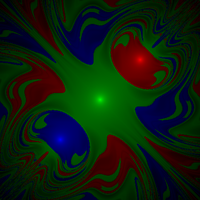
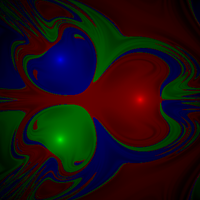
Refactor graphic's module code

diff --git a/src/graphics.py b/src/graphics.py
@@ -1,7 +1,6 @@
 import Image
 import colorsys  
-import math
-   
+  
 
 class ImageGenerator(object):
     
@@ -46,24 +45,22 @@ class ImageGenerator(object):
         self.color_list = []
         
         for i in range(0, number_of_colors):
-            base_hue = self.base_hsv[0]
-            base_saturation = self.base_hsv[1]
-            base_value = self.base_hsv[2]        
+            base_hue, base_saturation, base_value = self.base_hsv      
             
-            new_hue = base_hue + ((240 / number_of_colors) * i % 240)
-            new_rgb_color = colorsys.hsv_to_rgb(new_hue / 240, base_saturation, base_value)
-    
-            r = int(self.RGB_COLOR_SIZE * new_rgb_color[0])
-            g = int(self.RGB_COLOR_SIZE * new_rgb_color[1])
-            b = int(self.RGB_COLOR_SIZE * new_rgb_color[2])
-            
+            new_hue = (base_hue + ((240 / number_of_colors) * i % 240)) / 240
+            new_rgb_color = colorsys.hsv_to_rgb(new_hue, base_saturation, base_value)
+            r, g, b = self._correct_rgb_color(new_rgb_color)
+ 
             self.color_list.append((r, g, b))
 
- 
+    def _correct_rgb_color(self, rgb_color):
+        return map(lambda x: int(self.RGB_COLOR_SIZE * x), rgb_color)
+    
+     
 class BasicImageGenerator(ImageGenerator):
 
     def _colorize_pixel(self, color_number, track_value):
-
+ 
         if color_number == -1:
             return self.no_data_color
         else:
@@ -74,7 +71,7 @@ class AdvancedImageGenerator(ImageGenerator):
     
     def __init__(self, r, g, b):
         super(AdvancedImageGenerator, self).__init__(r, g, b)
-        self.max_track_length = []
+        self.max_tracks_length = []
     
     def generate_image(self, file_name, result_data, track_length, number_of_colors):
         self._calculate_max_track_length(result_data, track_length, number_of_colors)        
@@ -91,29 +88,24 @@ class AdvancedImageGenerator(ImageGenerator):
 
             max_length = sorted(temp)[len(temp) - 1]
 
-            self.max_track_length.append(max_length)    
+            self.max_tracks_length.append(max_length)    
 
     def _colorize_pixel(self, color_number, track_value):
 
         if color_number == -1:
             return self.no_data_color
         else:
-            return self._linear_color_value(self.color_list[color_number], track_value, self.max_track_length[color_number])
+            return self._get_color_value(self.color_list[color_number], track_value, self.max_tracks_length[color_number])
 
-    def _linear_color_value(self, color, track_value, max_track):
-        r, g, b = color
-
-        color_hsv = colorsys.rgb_to_hsv(r / self.RGB_COLOR_SIZE, g / self.RGB_COLOR_SIZE, b / self.RGB_COLOR_SIZE) # base color 
+    def _get_color_value(self, color, track_value, max_track):
+        color_hsv = colorsys.rgb_to_hsv(color[0] / self.RGB_COLOR_SIZE, color[1] / self.RGB_COLOR_SIZE, color[2] / self.RGB_COLOR_SIZE) # base color 
 
         new_value = 1 - (track_value / max_track)
         #new_value = 1 / math.exp(math.log(256) / max_track**2 * track_value**2)
 
         new_rgb_color = colorsys.hsv_to_rgb(color_hsv[0], color_hsv[1], new_value)
-        
-        r = int(self.RGB_COLOR_SIZE * new_rgb_color[0])
-        g = int(self.RGB_COLOR_SIZE * new_rgb_color[1])
-        b = int(self.RGB_COLOR_SIZE * new_rgb_color[2])
-        
+        r, g, b = self._correct_rgb_color(new_rgb_color)
+     
         return (r, g, b)
         
                                 

diff --git a/test/unit_tests.py b/test/unit_tests.py
@@ -165,9 +165,9 @@ class TestBasicImageGenerator(unittest.TestCase):
     def test_image_generation_1(self):
         number_of_colors = 3
         test_data = [[0, 2, 1], [1, 0, 1], [1, 2, 0]]
-        
+
         self.image_generator.generate_image("test_image_1", test_data, [], number_of_colors)
-        
+
         self.assertEqual(len(self.image_generator.color_list), number_of_colors)
        
     def test_image_generation_2(self): 

diff --git a/src/main.py b/src/main.py
@@ -7,7 +7,7 @@ import math
 
  
 def main():
-    magnets_example = 7
+    magnets_example = 5
     
     if magnets_example == 1:
         # Parameters: pos_x, pos_y, magnet strength constant
